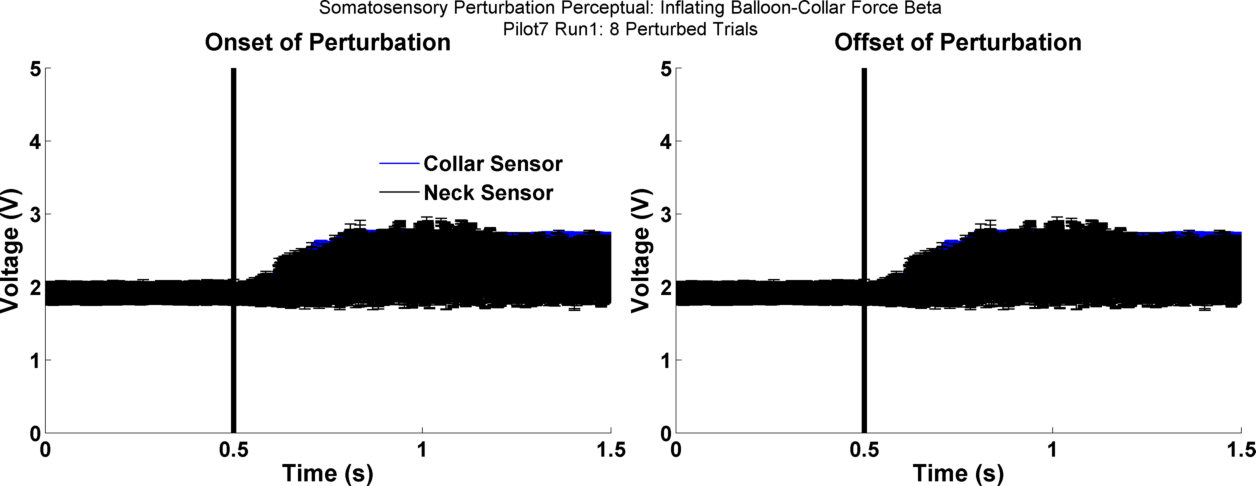
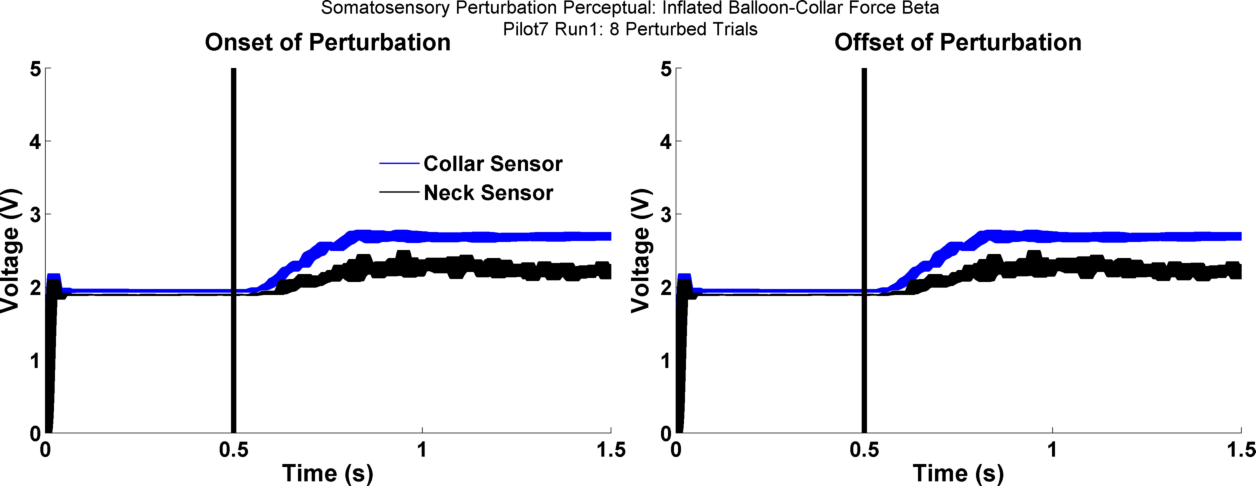
Some cleaner plots
I low-pass filtered the DAQin and the plots are a bit smoother. If I
dont include CI I bet its even better

Changed region(s): [[0.5279, 0.4321, 0.9936, 0.8951], [0.0311, 0.4321, 0.4968, 0.8951], [0.2484, 0.0, 0.7452, 0.0309]]

diff --git a/Analysis/SFPerturb_Analysis.m b/Analysis/SFPerturb_Analysis.m
@@ -10,10 +10,10 @@ PltTgl.ForceSensor     = 0; %Voltage trace of force sensor signal
 PltTgl.IntraTrial_T    = 0; %SPL trace of individual trial
 PltTgl.IntraTrial_f0   = 0; %f0 trace of individual trial
 PltTgl.InterTrial_f0   = 0; %Average f0 trace over all trials of a run
-PltTgl.InterTrial_AudRes = 0; %Average f0 response trace to auditory pert trials of a run
-PltTgl.InterTrial_Force  = 1;
 PltTgl.InterRun_f0       = 0; %Average f0 trace over all runs analyzed
+PltTgl.InterTrial_AudRes = 0; %Average f0 response trace to auditory pert trials of a run
 PltTgl.InterRun_AudRes   = 0; %Average f0 response trace to auditory pert over all runs analyzed
+PltTgl.InterTrial_Force  = 1;
 PltTgl.InterRun_Force    = 1;
 
 AVar.project      = 'Dissociating-Role-of-Feedback-in-Voice-Motor-Control';
@@ -143,7 +143,7 @@ for i = AVar.partiInd
                 
                 res.allTrialf0b   = cat(1, res.allTrialf0b, f0b);    %Baseline fundamental frequencies
                                 
-                TrialForce = forceSensorAnalysis(DAQin, spanQ(k,1), AVar); %At the moment only voltage
+                TrialForce = forceSensorAnalysis(DAQin, spanQ(k,1), sRate, AVar); %At the moment only voltage
                 res.allTrialForce = cat(3, res.allTrialForce, TrialForce);%Force sensor values;
                
                 if PltTgl.ForceSensor == 1; %Voltage trace of force sensor signal
@@ -158,7 +158,7 @@ for i = AVar.partiInd
                     limits = [0 AVar.totEveLen -80 60];
                     drawIntraTrialf0(AVar.anaTimeVec, Trialf0Norm_St, Trialf0Norm_Sp, trialType(k), limits, AVar.curRecording, k, dirs.saveResultsDir)
                 end
-            end          
+            end
         end
         
         %Sort trials within a given run by trial type and find averages
@@ -389,13 +389,18 @@ for ii = 1:AVar.nEvalSteps
 end
 end
 
-function TrialForce = forceSensorAnalysis(DAQin, trig, AVar)
+function TrialForce = forceSensorAnalysis(DAQin, trig, sRate, AVar)
 
 St = trig - AVar.preEveLenQ;
 Sp = trig + AVar.posEveLenQ - 1;
 
 coll = DAQin(St:Sp,1);
 neck = DAQin(St:Sp,2);
+
+[B,A] = butter(4,40/(sRate/2)); %Low-pass filter under 40
+
+coll  = filter(B,A,abs(coll));
+neck  = filter(B,A,abs(neck));
 
 %Eventually some conversion of voltage to force
 

diff --git a/Analysis/drawDAQsignal.m b/Analysis/drawDAQsignal.m
@@ -8,8 +8,6 @@ time = 0:1/sRate:(pts-1)/sRate;
 plotpos = [500 500];
 plotdim = [800 400];
 
-
-
 sv2File = 0;
 
 for ii = 1:r
